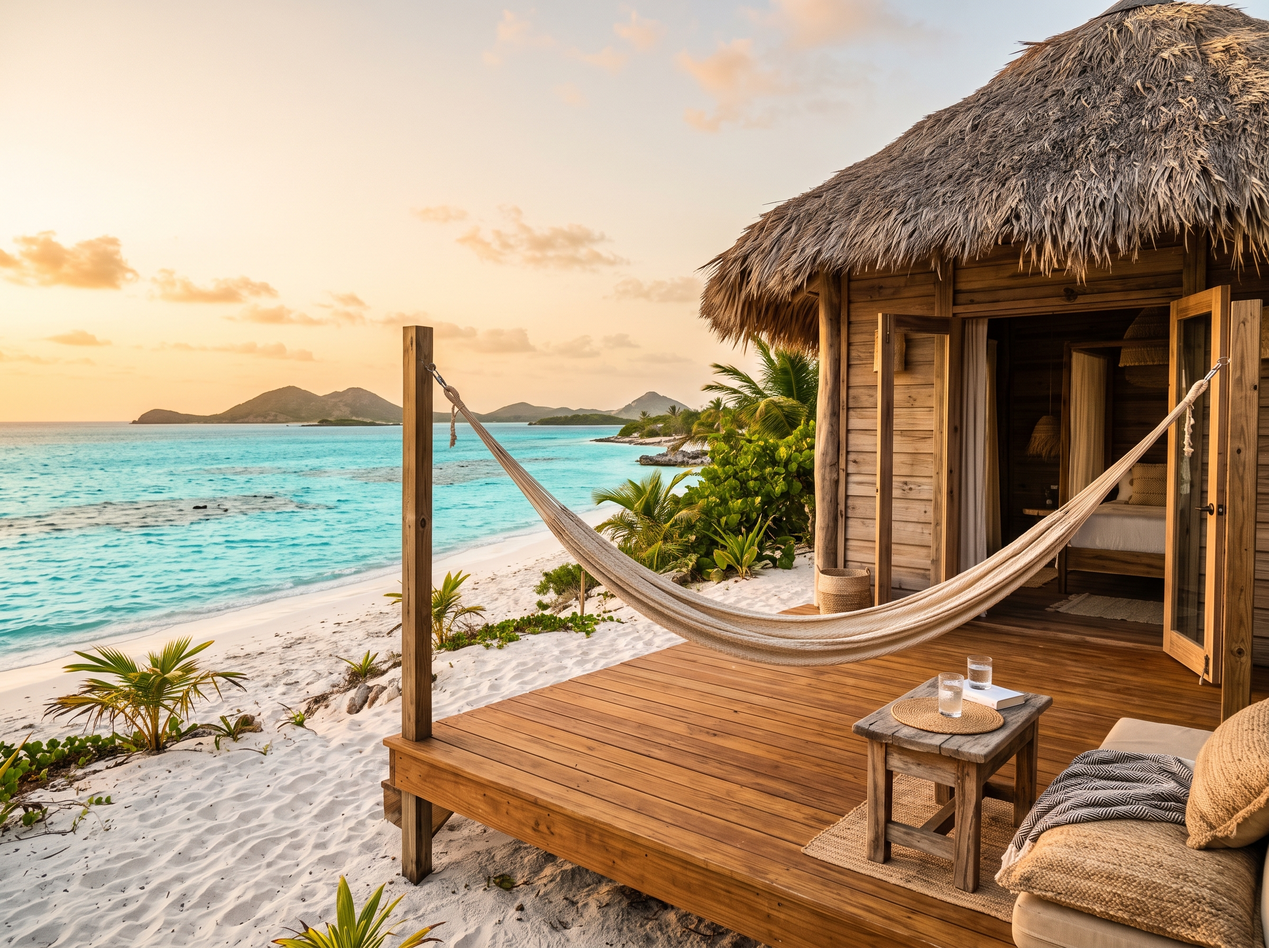
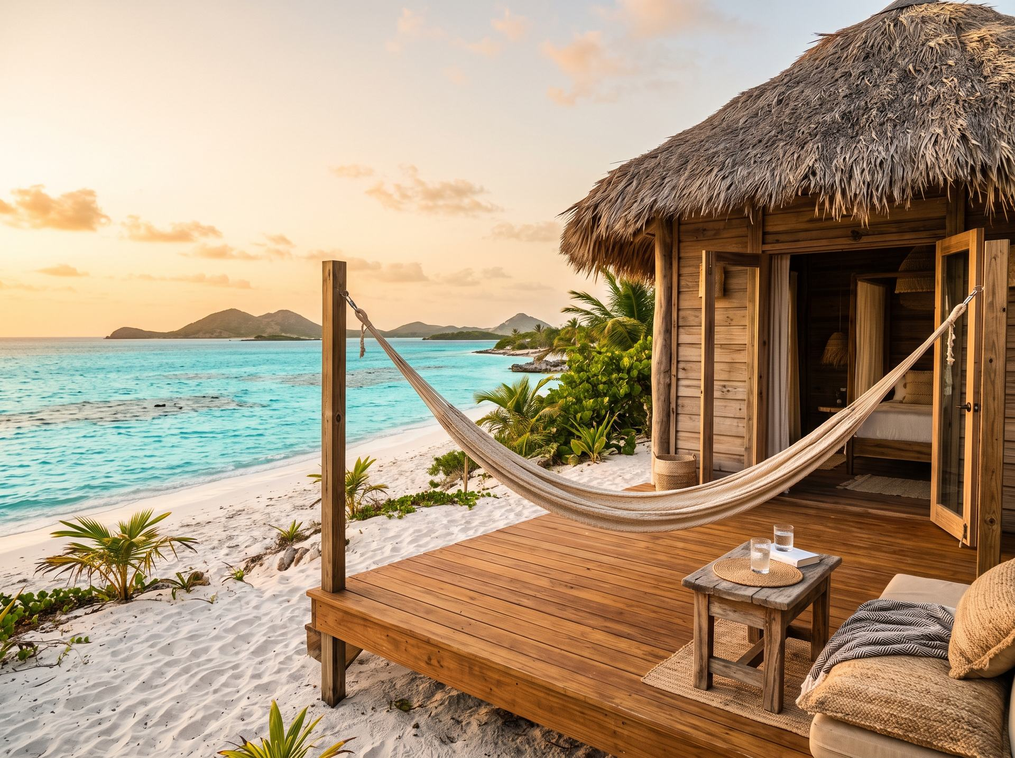
Optimize photo weight for mobile and fix scroll-reveal animations firing all at once
Every background photo was an unresized AI-gen export (2400-2752px wide,
3-4.5MB each) served identically to every device. Resized the desktop
copy down to a 1920px-wide, quality-76 JPEG (230-670KB) and added a
900px-wide @900w mobile variant (45-150KB) wired via srcset/sizes, so
phones actually download the small file instead of the same multi-MB
original as desktop. Hero-position photos load eager+high-priority;
everything below the fold loads lazy.

Separately, the .reveal/.reveal-item scroll animation was gated behind
the PARENT section crossing the IntersectionObserver threshold, so on a
tall mobile section (e.g. the 7-item "Por qué ACJ" list, much taller
there than on desktop) every item fired together the moment the top of
the section came into view — long before the user had actually scrolled
down to the later items. Each .reveal-item is now observed and animated
independently, so it reveals when it personally enters the viewport.

diff --git a/index.html b/index.html
@@ -71,7 +71,7 @@
 
   <main>
     <section id="inicio" class="relative bg-ink text-paper overflow-hidden pt-16 min-h-[640px] flex items-center">
-      <img src="assets/images/hero-roraima.jpg" alt="Vista aérea del tepuy Roraima en Venezuela al amanecer" class="absolute inset-x-0 top-0 w-full h-[85vh] object-cover" />
+      <img src="assets/images/hero-roraima.jpg" srcset="assets/images/hero-roraima@900w.jpg 900w, assets/images/hero-roraima.jpg 1920w" sizes="100vw" loading="eager" decoding="async" fetchpriority="high" alt="Vista aérea del tepuy Roraima en Venezuela al amanecer" class="absolute inset-x-0 top-0 w-full h-[85vh] object-cover" />
       <div class="hero-scrim absolute inset-x-0 top-0 w-full h-[85vh]"></div>
       <div class="relative z-10 flex flex-col justify-center px-6 md:px-14 py-16 md:py-0 max-w-xl">
         <h1 class="hero-anim font-serif text-4xl md:text-5xl font-semibold leading-[1.1] mb-4 max-w-md">
@@ -110,7 +110,7 @@
     </div>
 
     <section id="servicios" class="reveal relative overflow-hidden">
-      <img src="assets/images/playa.jpg" alt="Orilla de una playa de arena blanca con aguas cristalinas y palmeras en Los Roques, Venezuela" class="absolute inset-x-0 top-0 w-full h-[85vh] object-cover" />
+      <img src="assets/images/playa.jpg" srcset="assets/images/playa@900w.jpg 900w, assets/images/playa.jpg 1920w" sizes="100vw" loading="lazy" decoding="async" alt="Orilla de una playa de arena blanca con aguas cristalinas y palmeras en Los Roques, Venezuela" class="absolute inset-x-0 top-0 w-full h-[85vh] object-cover" />
       <div class="beach-wash absolute inset-x-0 top-0 w-full h-[85vh]"></div>
       <div class="absolute inset-x-0 top-[85vh] bottom-0 bg-paper"></div>
       <div class="relative z-10 py-20 px-5 max-w-6xl mx-auto">
@@ -122,7 +122,7 @@
         <article class="reveal-item group">
           <div class="accent-forest h-1 w-12 mb-5"></div>
           <div class="overflow-hidden mb-5">
-            <img src="assets/images/circuitos.jpg" alt="Guía y viajeros en un sendero de montaña en los Andes venezolanos" class="w-full h-52 object-cover group-hover:scale-105 transition-transform duration-700" />
+            <img src="assets/images/circuitos.jpg" srcset="assets/images/circuitos@900w.jpg 900w, assets/images/circuitos.jpg 1920w" sizes="(min-width: 768px) 33vw, 100vw" loading="lazy" decoding="async" alt="Guía y viajeros en un sendero de montaña en los Andes venezolanos" class="w-full h-52 object-cover group-hover:scale-105 transition-transform duration-700" />
           </div>
           <div class="card-panel rounded-xl p-5">
           <h3 class="font-serif text-xl font-semibold mb-3">
@@ -142,7 +142,7 @@
         <article class="reveal-item group">
           <div class="accent-amber h-1 w-12 mb-5"></div>
           <div class="overflow-hidden mb-5">
-            <img src="assets/images/boleteria.jpg" alt="Vista desde la ventana de un avión al amanecer con pasaporte y pase de abordar" class="w-full h-52 object-cover group-hover:scale-105 transition-transform duration-700" />
+            <img src="assets/images/boleteria.jpg" srcset="assets/images/boleteria@900w.jpg 900w, assets/images/boleteria.jpg 1920w" sizes="(min-width: 768px) 33vw, 100vw" loading="lazy" decoding="async" alt="Vista desde la ventana de un avión al amanecer con pasaporte y pase de abordar" class="w-full h-52 object-cover group-hover:scale-105 transition-transform duration-700" />
           </div>
           <div class="card-panel rounded-xl p-5">
           <h3 class="font-serif text-xl font-semibold mb-3">
@@ -162,7 +162,7 @@
         <article class="reveal-item group">
           <div class="accent-clay h-1 w-12 mb-5"></div>
           <div class="overflow-hidden mb-5">
-            <img src="assets/images/hospedaje.jpg" alt="Cabaña frente a la playa en Los Roques, Venezuela" class="w-full h-52 object-cover group-hover:scale-105 transition-transform duration-700" />
+            <img src="assets/images/hospedaje.jpg" srcset="assets/images/hospedaje@900w.jpg 900w, assets/images/hospedaje.jpg 1920w" sizes="(min-width: 768px) 33vw, 100vw" loading="lazy" decoding="async" alt="Cabaña frente a la playa en Los Roques, Venezuela" class="w-full h-52 object-cover group-hover:scale-105 transition-transform duration-700" />
           </div>
           <div class="card-panel rounded-xl p-5">
           <h3 class="font-serif text-xl font-semibold mb-3">
@@ -184,7 +184,7 @@
     </section>
 
     <section id="diferencia" class="reveal relative bg-ink text-paper overflow-hidden">
-      <img src="assets/images/ciudad.jpg" alt="Atardecer sobre un pueblo colonial andino en Venezuela" class="absolute inset-x-0 top-0 w-full h-[85vh] object-cover" />
+      <img src="assets/images/ciudad.jpg" srcset="assets/images/ciudad@900w.jpg 900w, assets/images/ciudad.jpg 1920w" sizes="100vw" loading="lazy" decoding="async" alt="Atardecer sobre un pueblo colonial andino en Venezuela" class="absolute inset-x-0 top-0 w-full h-[85vh] object-cover" />
       <div class="city-scrim absolute inset-x-0 top-0 w-full h-[85vh]"></div>
       <div class="relative z-10 py-20 px-5 max-w-4xl mx-auto">
         <p class="text-xl md:text-2xl font-serif font-semibold leading-snug mb-12 max-w-2xl">
@@ -232,7 +232,7 @@
     </section>
 
     <section id="proceso" class="reveal relative bg-ink text-paper overflow-hidden">
-      <img src="assets/images/noche.jpg" alt="Campamento nocturno bajo las estrellas junto a un tepuy en Venezuela" class="absolute inset-x-0 top-0 w-full h-[85vh] object-cover" />
+      <img src="assets/images/noche.jpg" srcset="assets/images/noche@900w.jpg 900w, assets/images/noche.jpg 1920w" sizes="100vw" loading="lazy" decoding="async" alt="Campamento nocturno bajo las estrellas junto a un tepuy en Venezuela" class="absolute inset-x-0 top-0 w-full h-[85vh] object-cover" />
       <div class="night-scrim absolute inset-x-0 top-0 w-full h-[85vh]"></div>
       <div class="relative z-10 py-20 px-5 max-w-4xl mx-auto">
       <h2 class="font-serif text-3xl font-semibold text-center mb-12">
@@ -282,7 +282,7 @@
     </section>
 
     <section id="contacto" class="reveal relative bg-ink text-paper overflow-hidden border-t-2 border-amber/60">
-      <img src="assets/images/japon.jpg" alt="Sendero de linternas rojas hacia un santuario japonés de noche" class="absolute inset-x-0 top-0 w-full h-[85vh] object-cover" />
+      <img src="assets/images/japon.jpg" srcset="assets/images/japon@900w.jpg 900w, assets/images/japon.jpg 1920w" sizes="100vw" loading="lazy" decoding="async" alt="Sendero de linternas rojas hacia un santuario japonés de noche" class="absolute inset-x-0 top-0 w-full h-[85vh] object-cover" />
       <div class="shrine-scrim absolute inset-x-0 top-0 w-full h-[85vh]"></div>
       <div class="relative z-10 py-24 px-5 max-w-2xl mx-auto text-center">
         <h2 class="font-serif text-4xl md:text-5xl font-semibold tracking-wide text-amber mb-4">

diff --git a/assets/styles.css b/assets/styles.css
@@ -58,19 +58,18 @@ html {
 }
 .reveal.in { opacity: 1; transform: translateY(0); }
 
-.reveal .reveal-item {
+.reveal-item {
   opacity: 0;
   transform: translateY(20px);
   transition: opacity 0.5s ease, transform 0.5s ease;
 }
-.reveal.in .reveal-item { opacity: 1; transform: translateY(0); }
-.reveal.in .reveal-item:nth-child(1) { transition-delay: 0s; }
-.reveal.in .reveal-item:nth-child(2) { transition-delay: 0.08s; }
-.reveal.in .reveal-item:nth-child(3) { transition-delay: 0.16s; }
-.reveal.in .reveal-item:nth-child(4) { transition-delay: 0.24s; }
-.reveal.in .reveal-item:nth-child(5) { transition-delay: 0.32s; }
-.reveal.in .reveal-item:nth-child(6) { transition-delay: 0.4s; }
-.reveal.in .reveal-item:nth-child(7) { transition-delay: 0.48s; }
+.reveal-item.in { opacity: 1; transform: translateY(0); }
+.reveal-item:nth-child(2).in { transition-delay: 0.08s; }
+.reveal-item:nth-child(3).in { transition-delay: 0.16s; }
+.reveal-item:nth-child(4).in { transition-delay: 0.24s; }
+.reveal-item:nth-child(5).in { transition-delay: 0.32s; }
+.reveal-item:nth-child(6).in { transition-delay: 0.4s; }
+.reveal-item:nth-child(7).in { transition-delay: 0.48s; }
 
 #nav.scrolled { box-shadow: 0 2px 20px rgba(7, 91, 115, 0.15); }
 

diff --git a/terminos.html b/terminos.html
@@ -64,7 +64,7 @@
   </nav>
 
   <section class="relative bg-ink text-paper overflow-hidden pt-16 min-h-[360px] flex items-end">
-    <img src="assets/images/circuitos.jpg" alt="Guía y viajeros en un sendero de montaña en los Andes venezolanos" class="absolute inset-x-0 top-0 w-full h-[45vh] object-cover" />
+    <img src="assets/images/circuitos.jpg" srcset="assets/images/circuitos@900w.jpg 900w, assets/images/circuitos.jpg 1920w" sizes="100vw" loading="eager" decoding="async" fetchpriority="high" alt="Guía y viajeros en un sendero de montaña en los Andes venezolanos" class="absolute inset-x-0 top-0 w-full h-[45vh] object-cover" />
     <div class="leaf-scrim absolute inset-x-0 top-0 w-full h-[45vh]"></div>
     <div class="relative z-10 px-5 pb-12 max-w-2xl mx-auto w-full">
       <h1 class="hero-anim font-serif text-4xl md:text-5xl font-semibold mb-3">

diff --git a/cookies.html b/cookies.html
@@ -64,7 +64,7 @@
   </nav>
 
   <section class="relative bg-ink text-paper overflow-hidden pt-16 min-h-[360px] flex items-end">
-    <img src="assets/images/hero-roraima.jpg" alt="Vista aérea del tepuy Roraima en Venezuela al amanecer" class="absolute inset-x-0 top-0 w-full h-[45vh] object-cover" />
+    <img src="assets/images/hero-roraima.jpg" srcset="assets/images/hero-roraima@900w.jpg 900w, assets/images/hero-roraima.jpg 1920w" sizes="100vw" loading="eager" decoding="async" fetchpriority="high" alt="Vista aérea del tepuy Roraima en Venezuela al amanecer" class="absolute inset-x-0 top-0 w-full h-[45vh] object-cover" />
     <div class="leaf-scrim absolute inset-x-0 top-0 w-full h-[45vh]"></div>
     <div class="relative z-10 px-5 pb-12 max-w-2xl mx-auto w-full">
       <h1 class="hero-anim font-serif text-4xl md:text-5xl font-semibold mb-3">

diff --git a/privacidad.html b/privacidad.html
@@ -64,7 +64,7 @@
   </nav>
 
   <section class="relative bg-ink text-paper overflow-hidden pt-16 min-h-[360px] flex items-end">
-    <img src="assets/images/hospedaje.jpg" alt="Cabaña frente a la playa en Los Roques, Venezuela" class="absolute inset-x-0 top-0 w-full h-[45vh] object-cover" />
+    <img src="assets/images/hospedaje.jpg" srcset="assets/images/hospedaje@900w.jpg 900w, assets/images/hospedaje.jpg 1920w" sizes="100vw" loading="eager" decoding="async" fetchpriority="high" alt="Cabaña frente a la playa en Los Roques, Venezuela" class="absolute inset-x-0 top-0 w-full h-[45vh] object-cover" />
     <div class="leaf-scrim absolute inset-x-0 top-0 w-full h-[45vh]"></div>
     <div class="relative z-10 px-5 pb-12 max-w-2xl mx-auto w-full">
       <h1 class="hero-anim font-serif text-4xl md:text-5xl font-semibold mb-3">

diff --git a/assets/script.js b/assets/script.js
@@ -65,9 +65,9 @@ if (typeof document !== 'undefined') {
         },
         { threshold: 0.15 }
       );
-      document.querySelectorAll('.reveal').forEach((el) => observer.observe(el));
+      document.querySelectorAll('.reveal, .reveal-item').forEach((el) => observer.observe(el));
     } else {
-      document.querySelectorAll('.reveal').forEach((el) => el.classList.add('in'));
+      document.querySelectorAll('.reveal, .reveal-item').forEach((el) => el.classList.add('in'));
     }
 
     const cookieNotice = document.getElementById('cookie-notice');
